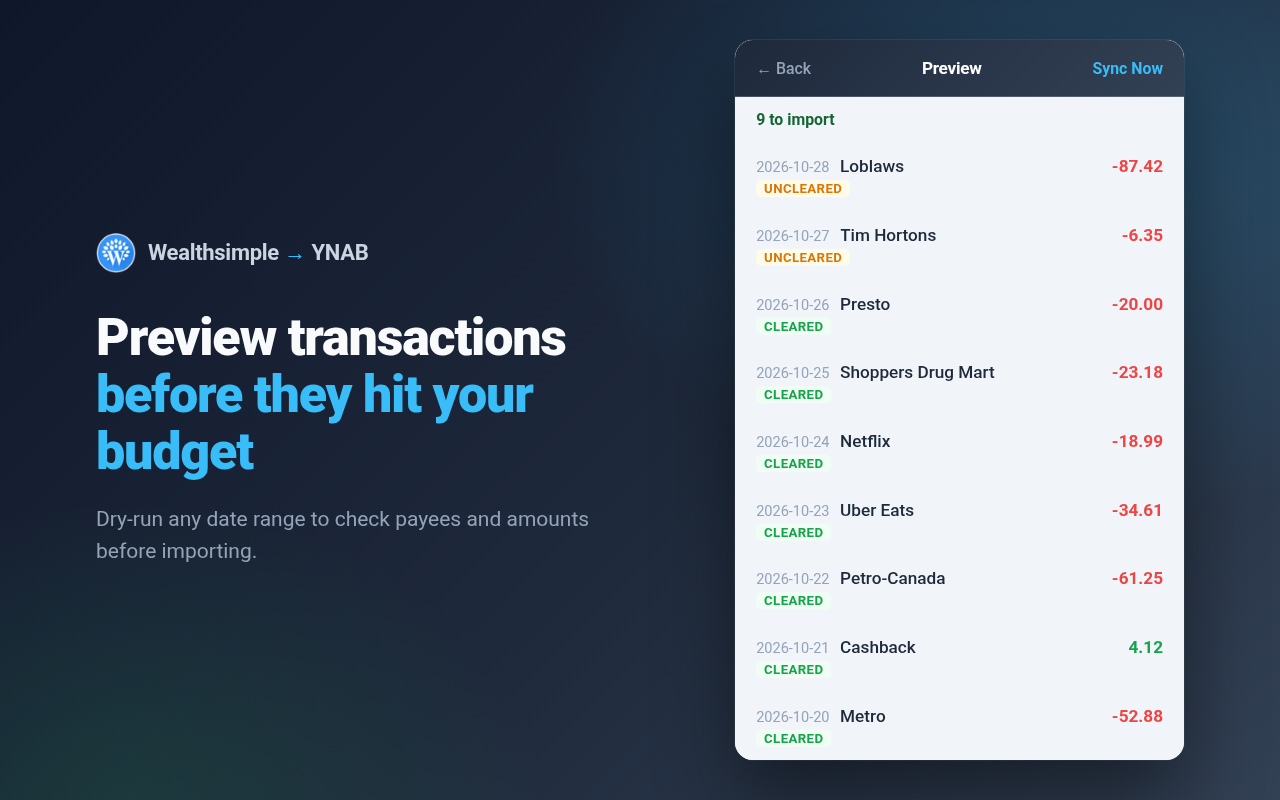
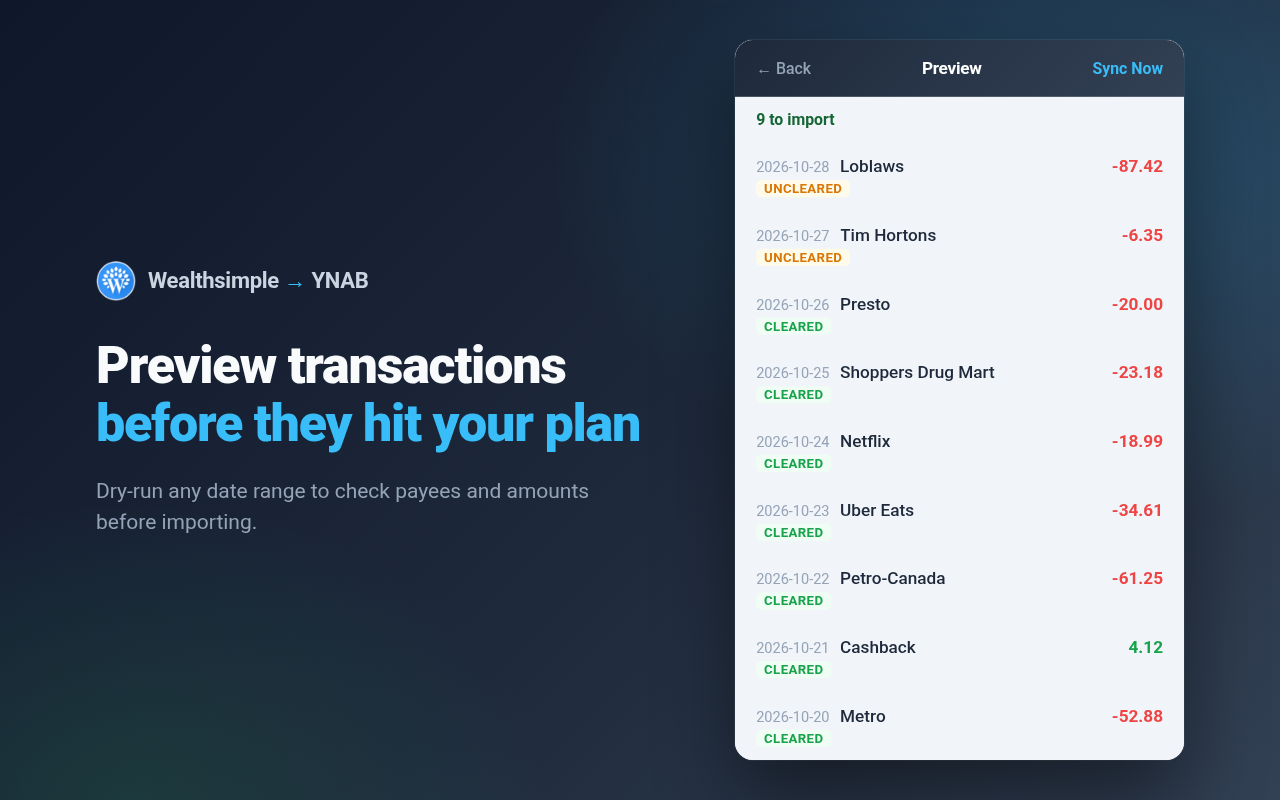
docs: use "plan" instead of "budget" and add Wealthsimple disclaimer

Changed region(s): [[0.0625, 0.2812, 0.5, 0.7188], [0.25, 0.2812, 0.2812, 0.375]]

diff --git a/store-assets/src/mock.js b/store-assets/src/mock.js
@@ -6,7 +6,7 @@
   const settings = {
     ynabAccessToken: state === "connect" ? "" : "mock-token",
     ynabBudgetId: "budget-1",
-    ynabBudgetName: "My Budget",
+    ynabBudgetName: "My Plan",
     ynabAccountId: "account-1",
     ynabAccountName: "Wealthsimple Visa",
     wealthsimpleAccountId: "card-1",
@@ -17,7 +17,7 @@
   };
 
   const budgets = [
-    { id: "budget-1", name: "My Budget" },
+    { id: "budget-1", name: "My Plan" },
     { id: "budget-2", name: "Shared Household" },
   ];
   const accounts = [

diff --git a/wxt.config.ts b/wxt.config.ts
@@ -21,7 +21,7 @@ export default defineConfig({
               id: "wealthsimple-ynab@cretezy.com",
               // data_collection_permissions requires Firefox 140+
               strict_min_version: "140.0",
-              // Transactions leave the device (sent to the user's YNAB budget)
+              // Transactions leave the device (sent to the user's YNAB plan)
               data_collection_permissions: {
                 required: ["financialAndPaymentInfo", "authenticationInfo"],
               },

diff --git a/entrypoints/popup/components/Dashboard.tsx b/entrypoints/popup/components/Dashboard.tsx
@@ -220,7 +220,7 @@ export function Dashboard({
         <div className="field-row">
           <div className="select-wrap">
             <label className="field-label" htmlFor="ynab-budget">
-              Budget
+              Plan
             </label>
             <PopupSelect
               id="ynab-budget"

diff --git a/PRIVACY.md b/PRIVACY.md
@@ -15,12 +15,12 @@ The extension runs entirely in your browser. It has no backend server, no analyt
 | Your Wealthsimple session cookie (`my.wealthsimple.com`)               | To read your credit card accounts, balances and transactions on your behalf | Only sent to Wealthsimple's own API (`my.wealthsimple.com`). It is never stored by the extension. |
 | Wealthsimple credit card transactions (merchant, amount, date, status) | To create matching transactions in YNAB                                     | Sent directly from your browser to YNAB's official API (`api.ynab.com`)                           |
 | Your YNAB access token (OAuth or personal access token)                | To call the YNAB API                                                        | Stored locally in your browser's extension storage. Only sent to `api.ynab.com`.                  |
-| Your YNAB budget and account lists                                     | To let you pick where transactions are imported                             | Displayed in the popup. Only the budget and account IDs and names you select are stored locally.  |
-| Your preferences (selected card, budget, account, sync options)        | To remember your choices                                                    | Stored locally in your browser's extension storage                                                |
+| Your YNAB plan and account lists                                       | To let you pick where transactions are imported                             | Displayed in the popup. Only the plan and account IDs and names you select are stored locally.    |
+| Your preferences (selected card, plan, account, sync options)          | To remember your choices                                                    | Stored locally in your browser's extension storage                                                |
 
 ## How data is used
 
-Data is used only to import your Wealthsimple credit card transactions into the YNAB budget you choose, when you click **Sync**. It is not used for any other purpose.
+Data is used only to import your Wealthsimple credit card transactions into the YNAB plan you choose, when you click **Sync**. It is not used for any other purpose.
 
 ## Third parties
 
@@ -45,7 +45,7 @@ The developer does not hold any of your data, so there is nothing to request del
 - Click **Disconnect** in the extension popup to delete your YNAB token and YNAB selections, or
 - Uninstall the extension, which removes all of its local storage.
 
-You can also revoke the extension's YNAB access at any time from [YNAB's settings](https://app.ynab.com/settings) under authorized applications. Transactions already imported into YNAB are part of your YNAB budget and are managed in YNAB.
+You can also revoke the extension's YNAB access at any time from [YNAB's settings](https://app.ynab.com/settings) under authorized applications. Transactions already imported into YNAB are part of your YNAB plan and are managed in YNAB.
 
 ## Changes
 
@@ -59,4 +59,4 @@ Open an issue at <https://github.com/Cretezy/wealthsimple-ynab/issues>, or email
 
 We are not affiliated, associated, or in any way officially connected with YNAB or any of its subsidiaries or affiliates. The official YNAB website can be found at <https://www.ynab.com>. The names YNAB and You Need A Budget, as well as related names, tradenames, marks, trademarks, emblems, and images are registered trademarks of YNAB.
 
-This project is not affiliated with, endorsed by, or connected to Wealthsimple Technologies Inc. Wealthsimple is a trademark of its respective owner.
+We are not affiliated, associated, or in any way officially connected with Wealthsimple Technologies Inc. or any of its subsidiaries or affiliates. The official Wealthsimple website can be found at <https://www.wealthsimple.com>. The name Wealthsimple, as well as related names, tradenames, marks, trademarks, emblems, and images, are trademarks of their respective owners.

diff --git a/README.md b/README.md
@@ -16,12 +16,12 @@ Everything runs locally in your browser: there's no backend server, and your dat
 
 ## Screenshots
 
-|                                                           |                                                                            |
-| --------------------------------------------------------- | -------------------------------------------------------------------------- |
-| ![Connect to YNAB](store-assets/screenshot-1-connect.png) | ![Choose card, budget and account](store-assets/screenshot-2-settings.png) |
-| **1. Connect** with YNAB OAuth or a personal access token | **2. Choose** your credit card, YNAB budget and account                    |
-| ![Dry-run preview](store-assets/screenshot-3-preview.png) | ![Sync done](store-assets/screenshot-4-sync-done.png)                      |
-| **3. Preview** transactions before they hit your budget   | **4. Sync** and see what was created or updated                            |
+|                                                           |                                                                          |
+| --------------------------------------------------------- | ------------------------------------------------------------------------ |
+| ![Connect to YNAB](store-assets/screenshot-1-connect.png) | ![Choose card, plan and account](store-assets/screenshot-2-settings.png) |
+| **1. Connect** with YNAB OAuth or a personal access token | **2. Choose** your credit card, YNAB plan and account                    |
+| ![Dry-run preview](store-assets/screenshot-3-preview.png) | ![Sync done](store-assets/screenshot-4-sync-done.png)                    |
+| **3. Preview** transactions before they hit your plan     | **4. Sync** and see what was created or updated                          |
 
 ## Install
 
@@ -33,7 +33,7 @@ Everything runs locally in your browser: there's no backend server, and your dat
 
 1. Sign in to [Wealthsimple](https://my.wealthsimple.com) in your browser.
 2. Open the extension popup and connect YNAB, either with **Authorize with YNAB** or with a [personal access token](https://app.ynab.com/settings/developer).
-3. Pick your credit card, YNAB budget, and YNAB account.
+3. Pick your credit card, YNAB plan, and YNAB account.
 4. Click **Sync Now**.
 
 YNAB OAuth tokens expire after 2 hours. When that happens, the popup asks you to sign in again.
@@ -90,7 +90,9 @@ Store screenshots and promo images are in [`store-assets/`](store-assets/).
 
 ## Disclaimer
 
-This project is not affiliated with, endorsed by, or connected to Wealthsimple Technologies Inc. It uses Wealthsimple's private, undocumented API, which may change or break at any time. Use it at your own risk.
+We are not affiliated, associated, or in any way officially connected with Wealthsimple Technologies Inc. or any of its subsidiaries or affiliates. The official Wealthsimple website can be found at <https://www.wealthsimple.com>. The name Wealthsimple, as well as related names, tradenames, marks, trademarks, emblems, and images, are trademarks of their respective owners.
+
+This project uses Wealthsimple's private, undocumented API, which may change or break at any time. Use it at your own risk.
 
 We are not affiliated, associated, or in any way officially connected with YNAB or any of its subsidiaries or affiliates. The official YNAB website can be found at <https://www.ynab.com>. The names YNAB and You Need A Budget, as well as related names, tradenames, marks, trademarks, emblems, and images are registered trademarks of YNAB.
 
